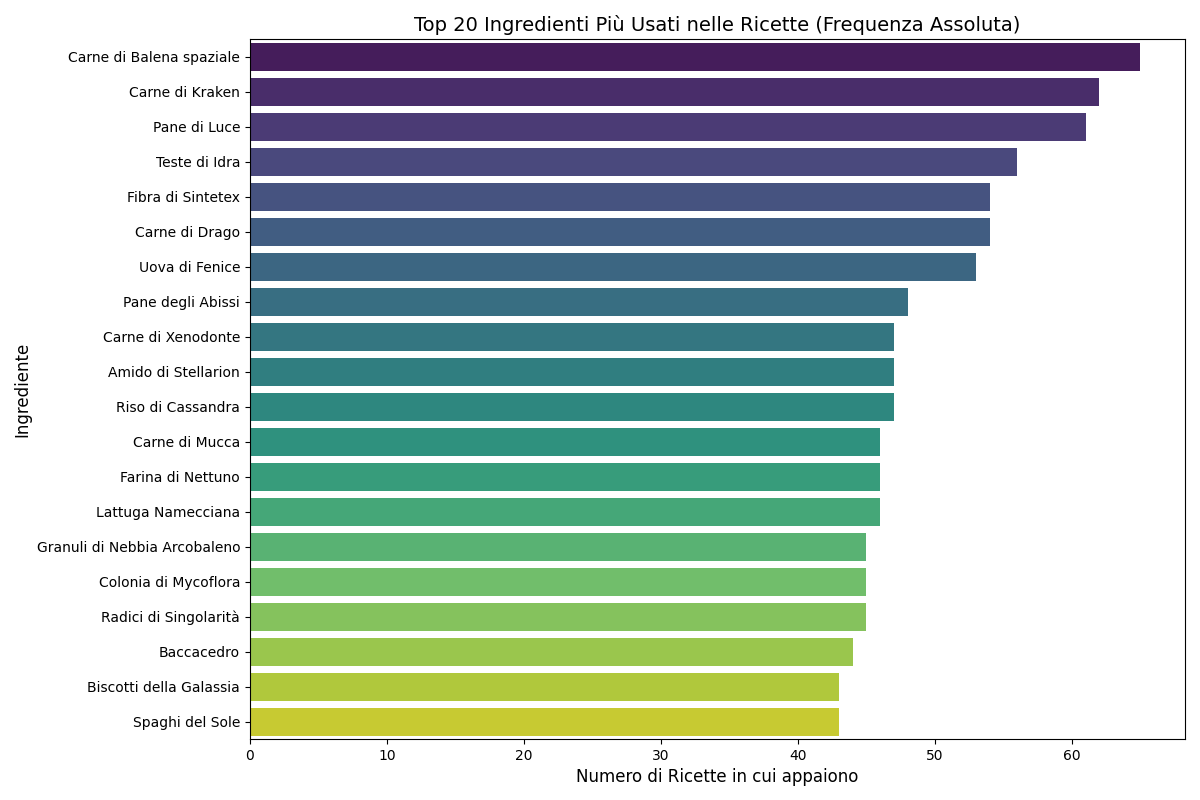
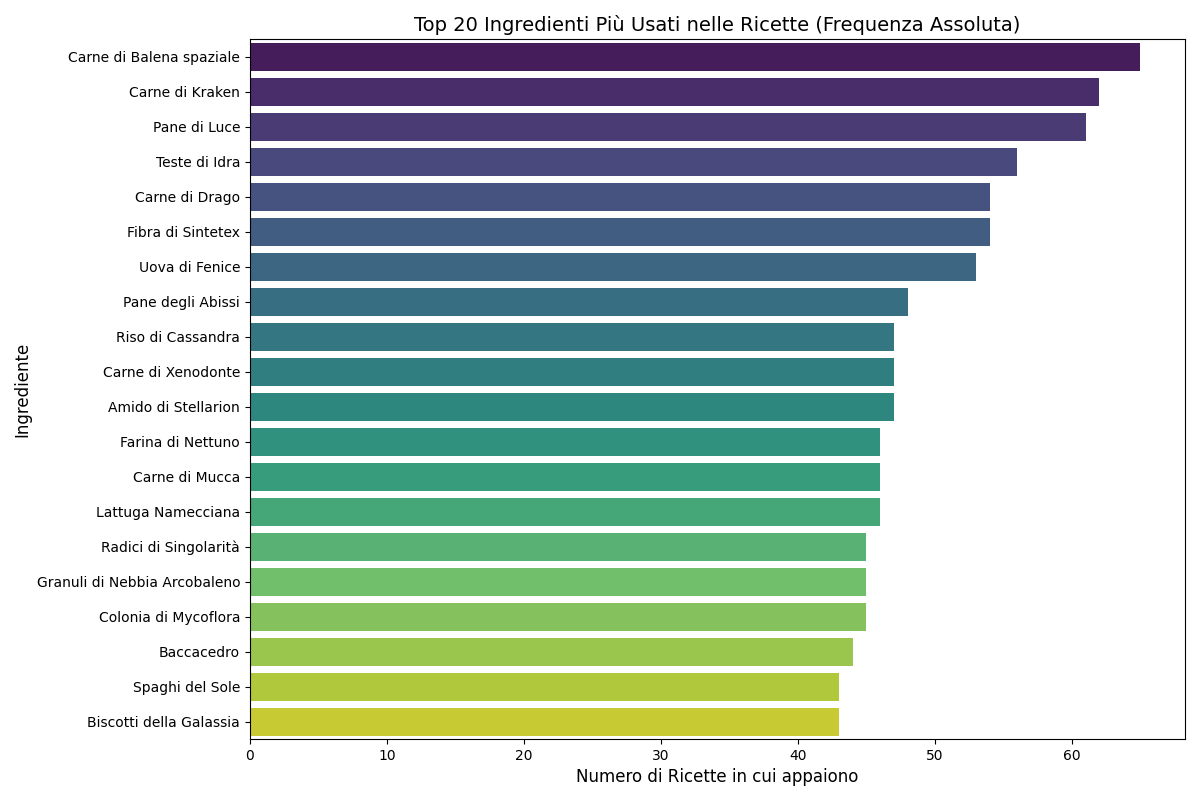
feat: Migrate data storage from TinyDB to Firebase Firestore, updating data fetching, charting, and setup documentation.

diff --git a/data_manager.py b/data_manager.py
@@ -1,25 +1,36 @@
 import asyncio
 import os
 import json
-from tinydb import TinyDB, Query
+import firebase_admin
+from firebase_admin import credentials, firestore
+from dotenv import load_dotenv
+
+load_dotenv()
+
 import api
 
-# Inizializza o apre i database locali
-recipes_db = TinyDB('data_recipes.json')
-restaurants_db = TinyDB('data_restaurants.json')
+if not firebase_admin._apps:
+    import os
+    cred_path = os.getenv("GOOGLE_APPLICATION_CREDENTIALS")
+    if cred_path:
+        cred = credentials.Certificate(cred_path)
+        firebase_admin.initialize_app(cred)
+    else:
+        firebase_admin.initialize_app()
+
+db = firestore.client()
 
 async def fetch_and_store_recipes():
     """Scarica le ricette dal server e le fa l'upsert su TinyDB"""
     print("Fetching recipes da API...")
     recipes = await api.get_recipes()
     if recipes:
-        Recipe = Query()
         count = 0
         for recipe in recipes:
             name = recipe.get("name")
             if name:
-                # Upsert inserisce la ricetta se non c'è, altrimenti l'aggiorna
-                recipes_db.upsert(recipe, Recipe.name == name)
+                # Upsert su Firestore
+                db.collection('recipes').document(str(name)).set(recipe, merge=True)
                 count += 1
         print(f"[OK] Salvate {count} ricette in data_recipes.json")
     else:
@@ -30,20 +41,19 @@ async def fetch_and_store_restaurants():
     print("Fetching status ristoranti da API...")
     restaurants = await api.get_restaurants()
     if restaurants:
-        Restaurant = Query()
         count = 0
         for r in restaurants:
             r_id = r.get("id")
             if r_id:
-                restaurants_db.upsert(r, Restaurant.id == r_id)
+                db.collection('restaurants').document(str(r_id)).set(r, merge=True)
                 count += 1
         print(f"[OK] Salvate info di {count} ristoranti in data_restaurants.json")
     else:
          print("[ERROR] Impossibile recuperare info sui ristoranti")
 
 if __name__ == "__main__":
-    if not os.getenv("TEAM_API_KEY"):
-         print("Assicurati di lanciare con `uv run --env-file .env data_manager.py`")
+    if not os.getenv("SERVER_API_KEY"):
+         print("Assicurati di esportare la variabile SERVER_API_KEY o caricare le variabili d'ambiente prima di eseguire lo script.")
          exit(1)
          
     async def main():

diff --git a/analysis.py b/analysis.py
@@ -1,12 +1,24 @@
-from tinydb import TinyDB
+import os
+import firebase_admin
+from firebase_admin import credentials, firestore
 from collections import Counter
+from dotenv import load_dotenv
 
-recipes_db = TinyDB('data_recipes.json')
-restaurants_db = TinyDB('data_restaurants.json')
+load_dotenv()
+
+if not firebase_admin._apps:
+    cred_path = os.getenv("GOOGLE_APPLICATION_CREDENTIALS")
+    if cred_path:
+        cred = credentials.Certificate(cred_path)
+        firebase_admin.initialize_app(cred)
+    else:
+        firebase_admin.initialize_app()
+
+db = firestore.client()
 
 def analyze_ingredients():
     """Analizza quali ingredienti appaiono più spesso in tutte le ricette"""
-    recipes = recipes_db.all()
+    recipes = [doc.to_dict() for doc in db.collection('recipes').stream()]
     ingredient_counter = Counter()
     
     for r in recipes:
@@ -20,7 +32,7 @@ def analyze_ingredients():
 
 def analyze_recipe_efficiency():
     """Analizza l'efficienza delle ricette valutando il rapporto Prestigio / Tempo di Preparazione"""
-    recipes = recipes_db.all()
+    recipes = [doc.to_dict() for doc in db.collection('recipes').stream()]
     
     efficiency_list = []
     
@@ -53,16 +65,17 @@ def analyze_recipe_efficiency():
 
 def analyze_competitors():
      """Mostra i nomi dei team aperti in questo momento e la loro rep"""
-     restaurants = restaurants_db.all()
+     restaurants = [doc.to_dict() for doc in db.collection('restaurants').stream()]
      print(f"\n==== STATO RISTORANTI COMPETITOR Trovati: {len(restaurants)} ====")
      for r in restaurants:
          print(f"- Team {r.get('id')} ({r.get('name')}) | Open: {r.get('isOpen')} | Balance: {r.get('balance')} | Rep: {r.get('reputation')}")
 
 if __name__ == "__main__":
-    if len(recipes_db.all()) == 0:
+    recipes = [doc.to_dict() for doc in db.collection('recipes').stream()]
+    if len(recipes) == 0:
          print("[!] Attenzione: Il DB delle ricette è vuoto. Esegui prima data_manager.py")
     else:
-        print(f"Analisi di {len(recipes_db.all())} ricette trovate nel database...")
+        print(f"Analisi di {len(recipes)} ricette trovate nel database...")
         analyze_ingredients()
         analyze_recipe_efficiency()
         analyze_competitors()

diff --git a/charts.py b/charts.py
@@ -1,19 +1,30 @@
 import matplotlib.pyplot as plt
 import seaborn as sns
 import pandas as pd
-from tinydb import TinyDB
 from collections import Counter
 import os
+import firebase_admin
+from firebase_admin import credentials, firestore
+from dotenv import load_dotenv
 
-recipes_db = TinyDB('data_recipes.json')
-restaurants_db = TinyDB('data_restaurants.json')
+load_dotenv()
+
+if not firebase_admin._apps:
+    cred_path = os.getenv("GOOGLE_APPLICATION_CREDENTIALS")
+    if cred_path:
+        cred = credentials.Certificate(cred_path)
+        firebase_admin.initialize_app(cred)
+    else:
+        firebase_admin.initialize_app()
+
+db = firestore.client()
 
 # Create output dir for images
 os.makedirs('visualizations', exist_ok=True)
 
 def plot_ingredient_distribution():
     print("Generating Ingredient Distribution Plot...")
-    recipes = recipes_db.all()
+    recipes = [doc.to_dict() for doc in db.collection('recipes').stream()]
     ingredient_counter = Counter()
     
     for r in recipes:
@@ -38,7 +49,7 @@ def plot_ingredient_distribution():
 
 def plot_efficiency_scatter():
     print("Generating Recipe Efficiency Scatter Plot...")
-    recipes = recipes_db.all()
+    recipes = [doc.to_dict() for doc in db.collection('recipes').stream()]
     
     data = []
     
@@ -87,7 +98,7 @@ def plot_efficiency_scatter():
 
 def plot_market_overview():
      print("Generating Market Overview...")
-     restaurants = restaurants_db.all()
+     restaurants = [doc.to_dict() for doc in db.collection('restaurants').stream()]
      
      if not restaurants:
          print("Nessun dato sui ristoranti.")
@@ -117,7 +128,8 @@ def plot_market_overview():
      return 'visualizations/market_overview.png'
      
 if __name__ == "__main__":
-    if len(recipes_db.all()) == 0:
+    recipes = [doc.to_dict() for doc in db.collection('recipes').stream()]
+    if len(recipes) == 0:
         print("Il database delle ricette è vuoto. Esegui data_manager.py prima!")
     else:
         plot_ingredient_distribution()

diff --git a/README.md b/README.md
@@ -1,1 +1,28 @@
 # Desf-AI
+
+## Setup Database (Firebase Firestore)
+
+Questo progetto utilizza Firebase Firestore per il salvataggio dei dati (Ricette e Ristoranti). Per configurare correttamente la connessione al database, segui questi passaggi:
+
+1. **Credenziali Firebase**
+   - Vai nella Console di Firebase -> Impostazioni progetto -> Account di servizio.
+   - Clicca su "Genera nuova chiave privata" per scaricare il file JSON con le credenziali.
+   - Rinomina il file in `firebase_credentials.json` e posizionalo nella cartella principale del progetto **(è già ignorato in `.gitignore`)**.
+
+2. **Configurazione `.env`**
+   - Assicurati di avere un file `.env` nella root del progetto.
+   - Aggiungi la seguente variabile al file `.env`:
+     ```env
+     GOOGLE_APPLICATION_CREDENTIALS=firebase_credentials.json
+     SERVER_API_KEY=tua_chiave_server
+     ```
+
+3. **Installazione ed Esecuzione**
+   - Le dipendenze (incluso `firebase-admin` e `python-dotenv`) vengono installate tramite:
+     ```bash
+     pip install -r requirements_server.txt
+     ```
+   - Lo script caricherà automaticamente le credenziali e le variabili di ambiente. Puoi lanciare l'aggiornamento dei dati tramite:
+     ```bash
+     python data_manager.py
+     ```
